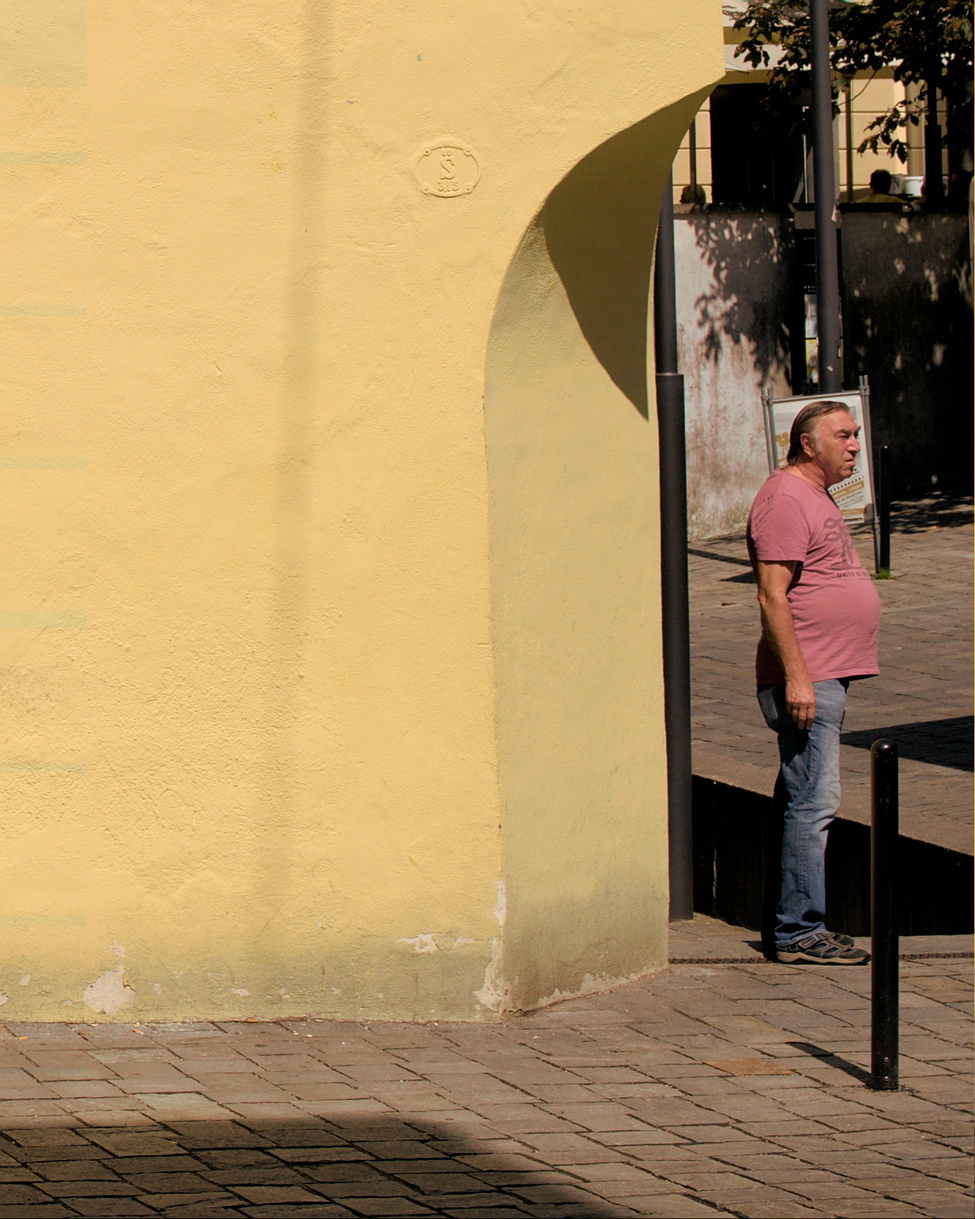
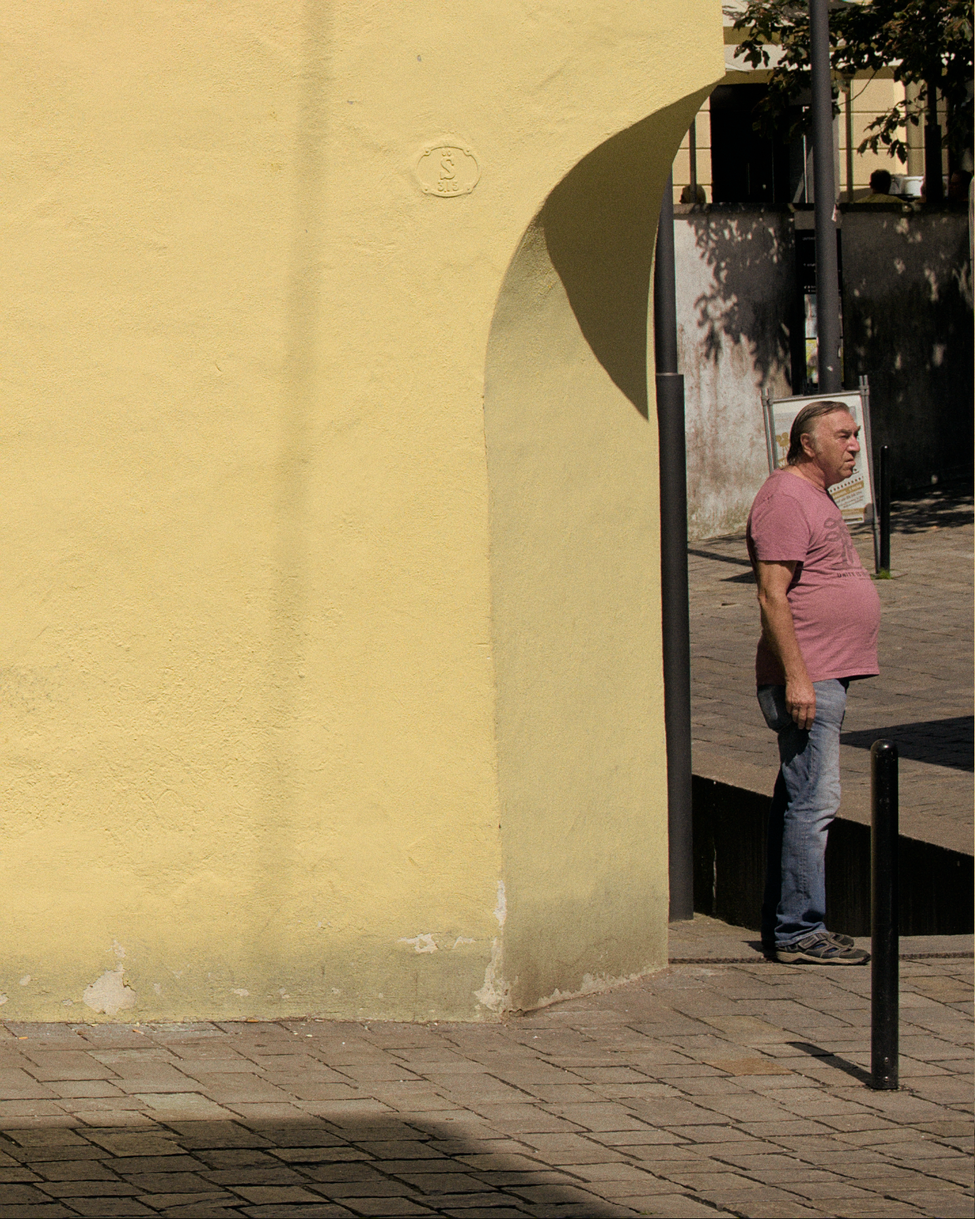
changing to webp

Changed region(s): [[0.766, 0.3432, 0.8886, 0.5616]]

diff --git a/pictures/portfolio/index.html b/pictures/portfolio/index.html
@@ -1,1 +1,1 @@
-<!DOCTYPE html> <html lang = "en"> <head> <meta charset="utf-8"> <meta name="apple-mobile-web-app-capable" content="yes"> <meta http-equiv="X-UA-Compatible" content="IE=edge"> <meta name="viewport" content="width=device-width, initial-scale=1"> <meta name="yandex-verification" content="e801bebf4149cd4c" /> <title> Folioporto | inversegravity.net </title> <meta name="description" content=" Folioporto "> <meta name="keywords" content="security, privacy, information security, cyber security, information technology, cloud, encryption"> <meta name="HandheldFriendly" content="True"> <meta name="MobileOptimized" content="320"> <!-- Social: Linkedin --> <meta property="og:type" content="website"> <meta property="og:url" content="https://inversegravity.net/pictures/portfolio/"> <meta property="og:title" content=" Folioporto | inversegravity.net "> <meta property="og:description" content=" Folioporto "> <meta property="og:site_name" content="Maximilian Weber"> <meta property="og:locale" content="en_US"> <!-- Social: Twitter --> <meta name="twitter:card" content="summary"> <meta name="twitter:site" content="inversegravityN"> <meta name="twitter:title" content=" Folioporto | inversegravity.net "> <meta name="twitter:description" content=" Folioporto "> <meta property="og:image" content="https://inversegravity.net/assets/images/inversegravity_og.png" /> <meta name="twitter:image" content="https://inversegravity.net/assets/images/inversegravity_twitter.png" /> <!-- Canonical link tag --> <script type="text/javascript" src="https://inversegravity.net/loadworker.js"></script> <link rel="canonical" href="https://inversegravity.net/pictures/portfolio/"> <link rel="alternate" type="application/rss+xml" title="inversegravity.net" href="https://inversegravity.net/feed.xml"> <!-- rel prev and next --> <meta name="theme-color" content="#f5f5f5"/> <link rel="stylesheet" href="https://inversegravity.net/assets/css/main.css"/> <link rel="manifest" href="https://inversegravity.net/manifest.webmanifest"/> <link rel="apple-touch-icon" href="https://inversegravity.net/favicon.ico"/> <script type="text/javascript"> window._mNHandle = window._mNHandle || {}; window._mNHandle.queue = window._mNHandle.queue || []; medianet_versionId = "3121199"; </script> <script src="https://contextual.media.net/dmedianet.js?cid=8CUGXGUP4" async="async"></script> <script async src="https://www.googletagmanager.com/gtag/js?id=G-1QJBHD3CVQ"></script> <script> window.dataLayer = window.dataLayer || []; function gtag(){dataLayer.push(arguments);} gtag('js', new Date()); gtag('config', 'G-1QJBHD3CVQ'); </script> </head> <body> <main class="wrapper"> <header class="site-header"> <nav class="nav"> <div class="container"> <h1 class="logo"><a href="https://inversegravity.net/">inversegravity<span>.net</span></a></h1> <ul class="navbar"> <li><a href="https://inversegravity.net/privacy/">privacy</a></li> <li><a href="https://inversegravity.net/about/">about</a></li> </ul> </div> </nav> </header> <article class="post container" itemscope itemtype="http://schema.org/BlogPosting"> <header class="post-header"> <p class="post-meta"><time datetime="" itemprop="datePublished"></time></p> <h1 class="post-title" itemprop="name headline">Folioporto</h1> </header> <div class="post-content" itemprop="articleBody"> <p><br /></p> <p align="center"> <img src="/assets/images/L1001906-min.png" alt="portfolio" /> <br /> </p> <p><br /><br /> <br /></p> <p align="center"> <img src="/assets/images/L1002431-min.png" alt="portfolio" /> <br /> </p> <p><br /><br /> <br /></p> <p align="center"> <img src="/assets/images/L1001910.webp" alt="portfolio" /> <br /> </p> <p><br /><br /> <br /></p> <p align="center"> <img src="/assets/images/L1002280-min.png" alt="portfolio" /> <br /> </p> <p><br /><br /> <br /></p> <p align="center"> <img src="/assets/images/L1000823.png" alt="portfolio" /> <br /> </p> <p><br /><br /> <br /></p> <p align="center"> <img src="/assets/images/L1002353-min.png" alt="portfolio" /> <br /> </p> <p><br /><br /> <br /></p> <p align="center"> <img src="/assets/images/L1002330-min.png" alt="portfolio" /> <br /> </p> <p><br /><br /> <br /></p> <p align="center"> <img src="/assets/images/L1002556.webp" alt="portfolio" /> <br /> </p> <p><br /><br /> <br /></p> <p align="center"> <img src="/assets/images/L1002265.webp" alt="portfolio" /> <br /> </p> <p><br /><br /> <br /></p> <p align="center"> <img src="/assets/images/L1002561.webp" alt="portfolio" /> <br /> </p> <p><br /><br /></p> </div> <div id="291704505"> <script type="text/javascript"> try { window._mNHandle.queue.push(function (){ window._mNDetails.loadTag("291704505", "320x50", "291704505"); }); } catch (error) {} </script> </div> <span><div style="text-align:center">[ <a href="/tag/photography/"><code class="highlighter-rouge"><nobr>photography</nobr></code></a> ]</div></span> <aside class="share"> <div style="text-align:center"><p>If you liked this article, please share it on <a href="http://twitter.com/share?text=Folioporto. Folioporto&amp;url=https://inversegravity.net/pictures/portfolio/&amp;via=inversegravityN" onclick="window.open(this.href, 'twitter-share', 'width=550,height=235');return false;">Twitter</a> or <a href="https://www.linkedin.com/sharing/share-offsite/?url=https://inversegravity.net/pictures/portfolio/" onclick="window.open(this.href, 'linkedin-share', 'width=550,height=235');return false;">LinkedIn</a></p></div> </aside> </article> <footer class="site-footer"> <div class="container"> <div style="text-align:center"> <small class="block">&copy; 2023 Maximilian Weber &middot; &lt;/&gt; Powered by <a href="https://jekyllrb.com/">Jekyll</a> </small> </div> </footer> </main> <!-- Global site tag (gtag.js) - Google Analytics --> <script async src="https://www.googletagmanager.com/gtag/js?id=G-1QJBHD3CVQ"></script> <script> window.dataLayer = window.dataLayer || []; function gtag(){dataLayer.push(arguments);} gtag('js', new Date()); gtag('config', 'G-1QJBHD3CVQ'); </script> <script src="https://ajax.googleapis.com/ajax/libs/jquery/3.5.1/jquery.min.js"></script> <style> #cookie-notice {padding: 7px 15px; display: none; text-align: center; position: fixed; bottom: 0; width: 100%; background: #fff; color: rgba(0,0,0,0.8);} #cookie-notice a {cursor: pointer; margin-left: 10px;} @media (max-width: 767px) { #cookie-notice span {display: block; padding-top: 3px; margin-bottom: 13px;} #cookie-notice a {position: relative; bottom: 4px;} } </style> <div id="cookie-notice"><span> By using and navigating this website you agree that we use GitHub Pages, Google Analytics, and Cloudflare.</span><a id="cookie-notice-accept" class="btn btn-primary btn-sm"><br>OK</a></div> <script> function createCookie(name,value,days) { var expires = ""; if (days) { var date = new Date(); date.setTime(date.getTime() + (days*24*60*60*1000)); expires = "; expires=" + date.toUTCString(); } document.cookie = name + "=" + value + expires + "; path=/"; } function readCookie(name) { var nameEQ = name + "="; var ca = document.cookie.split(';'); for(var i=0;i < ca.length;i++) { var c = ca[i]; while (c.charAt(0)==' ') c = c.substring(1,c.length); if (c.indexOf(nameEQ) == 0) return c.substring(nameEQ.length,c.length); } return null; } function eraseCookie(name) { createCookie(name,"",-1); } if(readCookie('cookie-notice-dismissed')=='true') { } else { $('#cookie-notice').show(); } $('#cookie-notice-accept').click(function() { createCookie('cookie-notice-dismissed','true',31); $('#cookie-notice').hide(); location.reload(); }); </script> </body> </html>
+<!DOCTYPE html> <html lang = "en"> <head> <meta charset="utf-8"> <meta name="apple-mobile-web-app-capable" content="yes"> <meta http-equiv="X-UA-Compatible" content="IE=edge"> <meta name="viewport" content="width=device-width, initial-scale=1"> <meta name="yandex-verification" content="e801bebf4149cd4c" /> <title> Folioporto | inversegravity.net </title> <meta name="description" content=" Folioporto "> <meta name="keywords" content="security, privacy, information security, cyber security, information technology, cloud, encryption"> <meta name="HandheldFriendly" content="True"> <meta name="MobileOptimized" content="320"> <!-- Social: Linkedin --> <meta property="og:type" content="website"> <meta property="og:url" content="https://inversegravity.net/pictures/portfolio/"> <meta property="og:title" content=" Folioporto | inversegravity.net "> <meta property="og:description" content=" Folioporto "> <meta property="og:site_name" content="Maximilian Weber"> <meta property="og:locale" content="en_US"> <!-- Social: Twitter --> <meta name="twitter:card" content="summary"> <meta name="twitter:site" content="inversegravityN"> <meta name="twitter:title" content=" Folioporto | inversegravity.net "> <meta name="twitter:description" content=" Folioporto "> <meta property="og:image" content="https://inversegravity.net/assets/images/inversegravity_og.png" /> <meta name="twitter:image" content="https://inversegravity.net/assets/images/inversegravity_twitter.png" /> <!-- Canonical link tag --> <script type="text/javascript" src="https://inversegravity.net/loadworker.js"></script> <link rel="canonical" href="https://inversegravity.net/pictures/portfolio/"> <link rel="alternate" type="application/rss+xml" title="inversegravity.net" href="https://inversegravity.net/feed.xml"> <!-- rel prev and next --> <meta name="theme-color" content="#f5f5f5"/> <link rel="stylesheet" href="https://inversegravity.net/assets/css/main.css"/> <link rel="manifest" href="https://inversegravity.net/manifest.webmanifest"/> <link rel="apple-touch-icon" href="https://inversegravity.net/favicon.ico"/> <script type="text/javascript"> window._mNHandle = window._mNHandle || {}; window._mNHandle.queue = window._mNHandle.queue || []; medianet_versionId = "3121199"; </script> <script src="https://contextual.media.net/dmedianet.js?cid=8CUGXGUP4" async="async"></script> <script async src="https://www.googletagmanager.com/gtag/js?id=G-1QJBHD3CVQ"></script> <script> window.dataLayer = window.dataLayer || []; function gtag(){dataLayer.push(arguments);} gtag('js', new Date()); gtag('config', 'G-1QJBHD3CVQ'); </script> </head> <body> <main class="wrapper"> <header class="site-header"> <nav class="nav"> <div class="container"> <h1 class="logo"><a href="https://inversegravity.net/">inversegravity<span>.net</span></a></h1> <ul class="navbar"> <li><a href="https://inversegravity.net/privacy/">privacy</a></li> <li><a href="https://inversegravity.net/about/">about</a></li> </ul> </div> </nav> </header> <article class="post container" itemscope itemtype="http://schema.org/BlogPosting"> <header class="post-header"> <p class="post-meta"><time datetime="" itemprop="datePublished"></time></p> <h1 class="post-title" itemprop="name headline">Folioporto</h1> </header> <div class="post-content" itemprop="articleBody"> <p><br /></p> <p align="center"> <img src="/assets/images/L1001906-min.png" alt="portfolio" /> <br /> </p> <p><br /><br /> <br /></p> <p align="center"> <img src="/assets/images/L1002431.webp" alt="portfolio" /> <br /> </p> <p><br /><br /> <br /></p> <p align="center"> <img src="/assets/images/L1001910.webp" alt="portfolio" /> <br /> </p> <p><br /><br /> <br /></p> <p align="center"> <img src="/assets/images/L1002280.webp" alt="portfolio" /> <br /> </p> <p><br /><br /> <br /></p> <p align="center"> <img src="/assets/images/L1000823.png" alt="portfolio" /> <br /> </p> <p><br /><br /> <br /></p> <p align="center"> <img src="/assets/images/L1002353-min.png" alt="portfolio" /> <br /> </p> <p><br /><br /> <br /></p> <p align="center"> <img src="/assets/images/L1002330.webp" alt="portfolio" /> <br /> </p> <p><br /><br /> <br /></p> <p align="center"> <img src="/assets/images/L1002556.webp" alt="portfolio" /> <br /> </p> <p><br /><br /> <br /></p> <p align="center"> <img src="/assets/images/L1002265.webp" alt="portfolio" /> <br /> </p> <p><br /><br /> <br /></p> <p align="center"> <img src="/assets/images/L1002561.webp" alt="portfolio" /> <br /> </p> <p><br /><br /></p> </div> <div id="291704505"> <script type="text/javascript"> try { window._mNHandle.queue.push(function (){ window._mNDetails.loadTag("291704505", "320x50", "291704505"); }); } catch (error) {} </script> </div> <span><div style="text-align:center">[ <a href="/tag/photography/"><code class="highlighter-rouge"><nobr>photography</nobr></code></a> ]</div></span> <aside class="share"> <div style="text-align:center"><p>If you liked this article, please share it on <a href="http://twitter.com/share?text=Folioporto. Folioporto&amp;url=https://inversegravity.net/pictures/portfolio/&amp;via=inversegravityN" onclick="window.open(this.href, 'twitter-share', 'width=550,height=235');return false;">Twitter</a> or <a href="https://www.linkedin.com/sharing/share-offsite/?url=https://inversegravity.net/pictures/portfolio/" onclick="window.open(this.href, 'linkedin-share', 'width=550,height=235');return false;">LinkedIn</a></p></div> </aside> </article> <footer class="site-footer"> <div class="container"> <div style="text-align:center"> <small class="block">&copy; 2023 Maximilian Weber &middot; &lt;/&gt; Powered by <a href="https://jekyllrb.com/">Jekyll</a> </small> </div> </footer> </main> <!-- Global site tag (gtag.js) - Google Analytics --> <script async src="https://www.googletagmanager.com/gtag/js?id=G-1QJBHD3CVQ"></script> <script> window.dataLayer = window.dataLayer || []; function gtag(){dataLayer.push(arguments);} gtag('js', new Date()); gtag('config', 'G-1QJBHD3CVQ'); </script> <script src="https://ajax.googleapis.com/ajax/libs/jquery/3.5.1/jquery.min.js"></script> <style> #cookie-notice {padding: 7px 15px; display: none; text-align: center; position: fixed; bottom: 0; width: 100%; background: #fff; color: rgba(0,0,0,0.8);} #cookie-notice a {cursor: pointer; margin-left: 10px;} @media (max-width: 767px) { #cookie-notice span {display: block; padding-top: 3px; margin-bottom: 13px;} #cookie-notice a {position: relative; bottom: 4px;} } </style> <div id="cookie-notice"><span> By using and navigating this website you agree that we use GitHub Pages, Google Analytics, and Cloudflare.</span><a id="cookie-notice-accept" class="btn btn-primary btn-sm"><br>OK</a></div> <script> function createCookie(name,value,days) { var expires = ""; if (days) { var date = new Date(); date.setTime(date.getTime() + (days*24*60*60*1000)); expires = "; expires=" + date.toUTCString(); } document.cookie = name + "=" + value + expires + "; path=/"; } function readCookie(name) { var nameEQ = name + "="; var ca = document.cookie.split(';'); for(var i=0;i < ca.length;i++) { var c = ca[i]; while (c.charAt(0)==' ') c = c.substring(1,c.length); if (c.indexOf(nameEQ) == 0) return c.substring(nameEQ.length,c.length); } return null; } function eraseCookie(name) { createCookie(name,"",-1); } if(readCookie('cookie-notice-dismissed')=='true') { } else { $('#cookie-notice').show(); } $('#cookie-notice-accept').click(function() { createCookie('cookie-notice-dismissed','true',31); $('#cookie-notice').hide(); location.reload(); }); </script> </body> </html>
